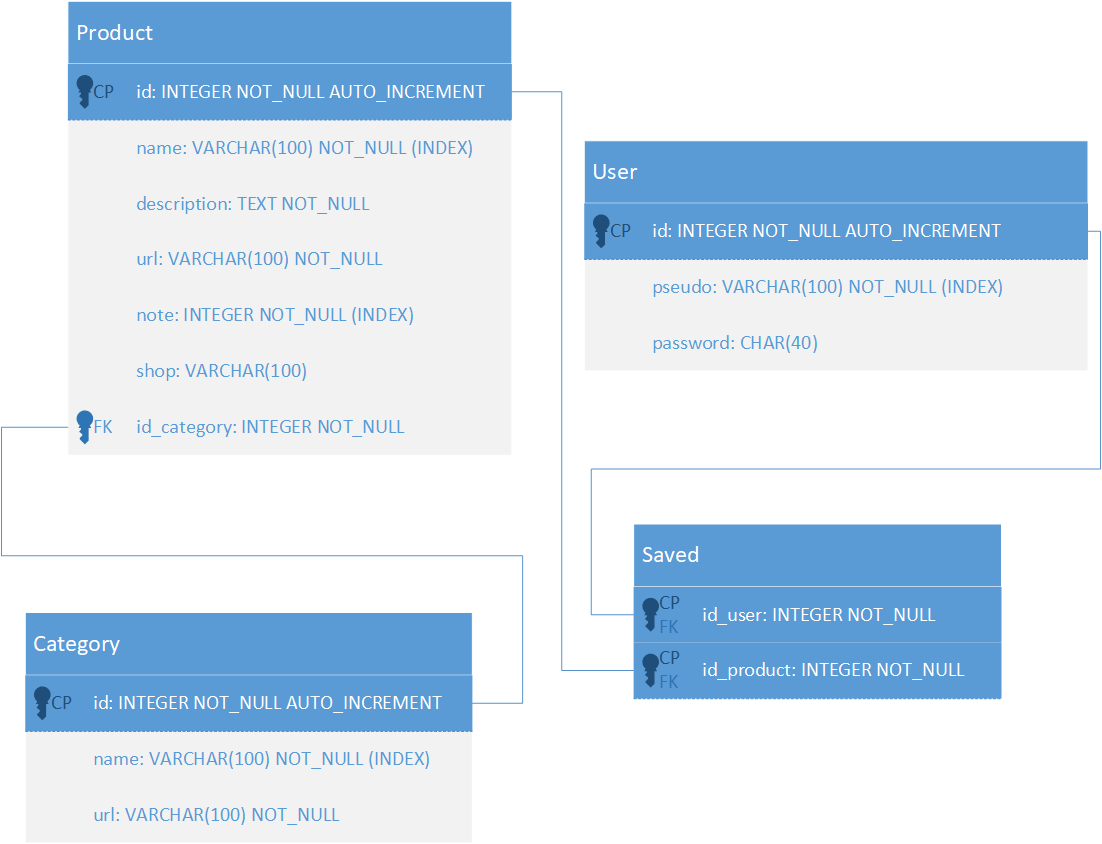
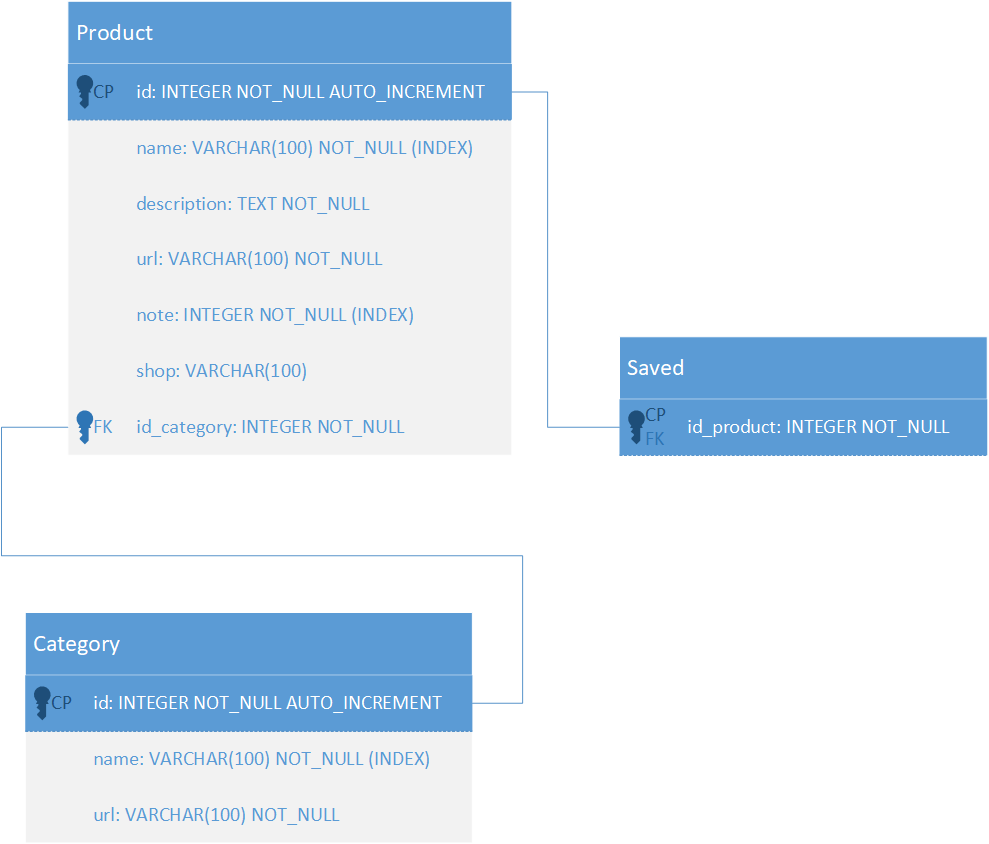
Modify DB schema, implementing new functions in Db_module.py and main

diff --git a/main.py b/main.py
@@ -18,7 +18,9 @@ class Main:
 
     cls()
     while True:
-        print("1 - Alimenter la base de données avec les données d'Open Food Facts")
+        print(
+            "1 - Alimenter la base de données avec les données d'Open Food",
+            " Facts")
         print("2 - Quel aliment souhaitez-vous remplacer ?")
         print("3 - Retrouver mes aliments substitués")
         inp = input("Votre choix: ")
@@ -60,7 +62,9 @@ class Main:
                 break
             else:
                 cls()
-                print("Vous devez entrer un chiffre correspondant à une catégorie")
+                print(
+                    "Vous devez entrer un chiffre correspondant",
+                    " à une catégorie")
                 print("")
         cls()
         products = db.get_products(cats[int(inp) - 1][1], 10)
@@ -79,7 +83,9 @@ class Main:
                 break
             else:
                 cls()
-                print("Vous devez entrer un chiffre correspondant à un produit")
+                print(
+                    "Vous devez entrer un chiffre correspondant",
+                    " à un produit")
                 print("")
         cls()
         print("Détail de l'aliment:")
@@ -91,6 +97,23 @@ class Main:
         print("url: ", products[inp - 1][3])
         print("Magasins: ", products[inp - 1][4])
         print("Catégorie: ", products[inp - 1][5])
+        print("")
+        print("____________________")
+        if products[inp - 1][2] != "a":
+            bestproduct = db.get_bestproduct(products[inp - 1][5])
+            print("")
+            print(
+                "Vous pourriez remplacer cet aliment le suivant",
+                " qui est mieux noté:")
+            print("")
+            print("Nom du produit: ", bestproduct[0])
+            print("Description: ", bestproduct[1])
+            print("Note: ", bestproduct[2])
+            print("url: ", bestproduct[3])
+            print("Magasins: ", bestproduct[4])
+            print("Catégorie: ", bestproduct[5])
+            print("")
+
         del db
 
 if __name__ == "__main__":

diff --git a/Classes/Db_module.py b/Classes/Db_module.py
@@ -39,7 +39,9 @@ class Db_module:
             self.cursor.execute(sql_insert_cat, cat_toinsert)
             self.connection.commit()
             cat_name = cat["name"]
-            self.cursor.execute("SELECT id FROM Category WHERE name = %s", (cat_name,))
+            self.cursor.execute(
+                "SELECT id FROM Category WHERE name = %s",
+                (cat_name,))
             cat_id = self.cursor.fetchall()[0][0]
             prod_toinsert = []
             for prod in cat["products"]:
@@ -61,10 +63,20 @@ class Db_module:
         return self.cursor.fetchall()
 
     def get_products(self, cat, nb):
-        query = ("SELECT prd.name, prd.description, prd.grade, prd.url, prd.stores, cat.name \
+        query = ("SELECT DISTINCT prd.name, prd.description, prd.grade, \
+            prd.url, prd.stores, cat.name \
             FROM Product AS prd \
             INNER JOIN Category AS cat ON prd.id_category = cat.id \
             WHERE cat.name = %s LIMIT %s")
 
         self.cursor.execute(query, (cat, nb,))
         return self.cursor.fetchall()
+
+    def get_bestproduct(self, cat):
+        query = ("SELECT prd.name, prd.description, prd.grade, prd.url, prd.stores, cat.name \
+            FROM Product AS prd \
+            INNER JOIN Category AS cat ON prd.id_category = cat.id \
+            WHERE cat.name = %s ORDER BY prd.grade LIMIT 1")
+
+        self.cursor.execute(query, (cat,))
+        return self.cursor.fetchall()[0]
